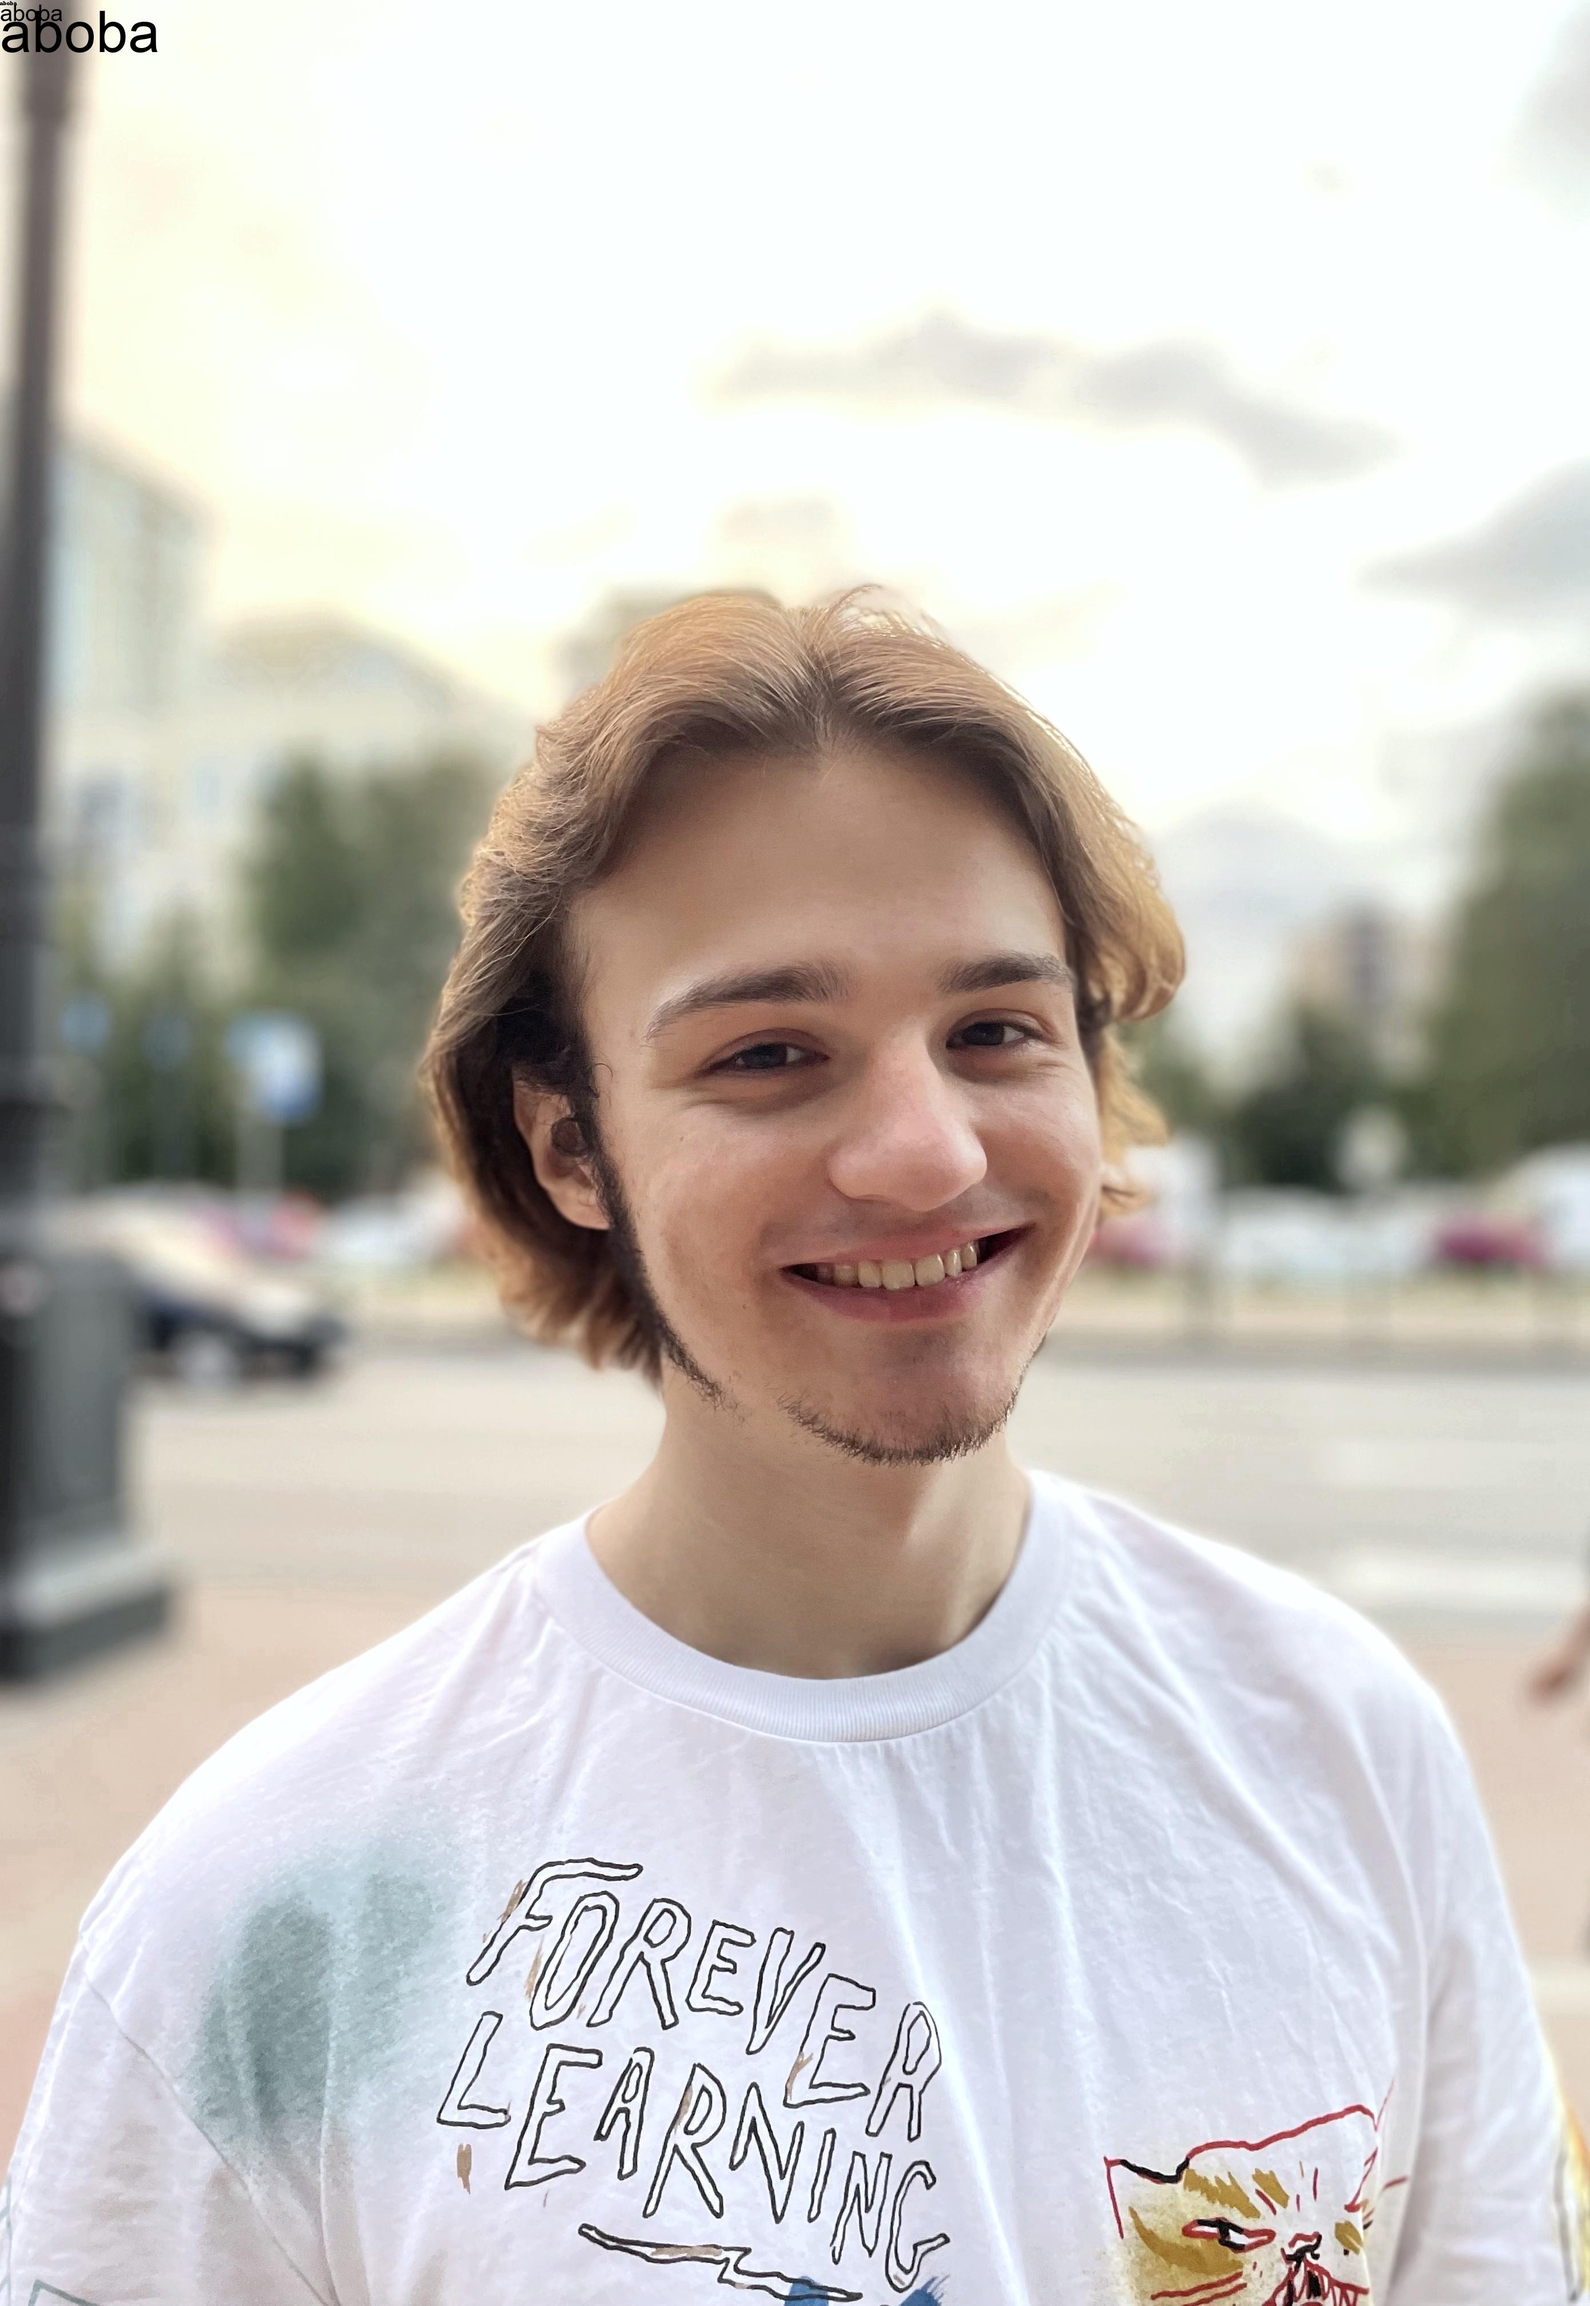
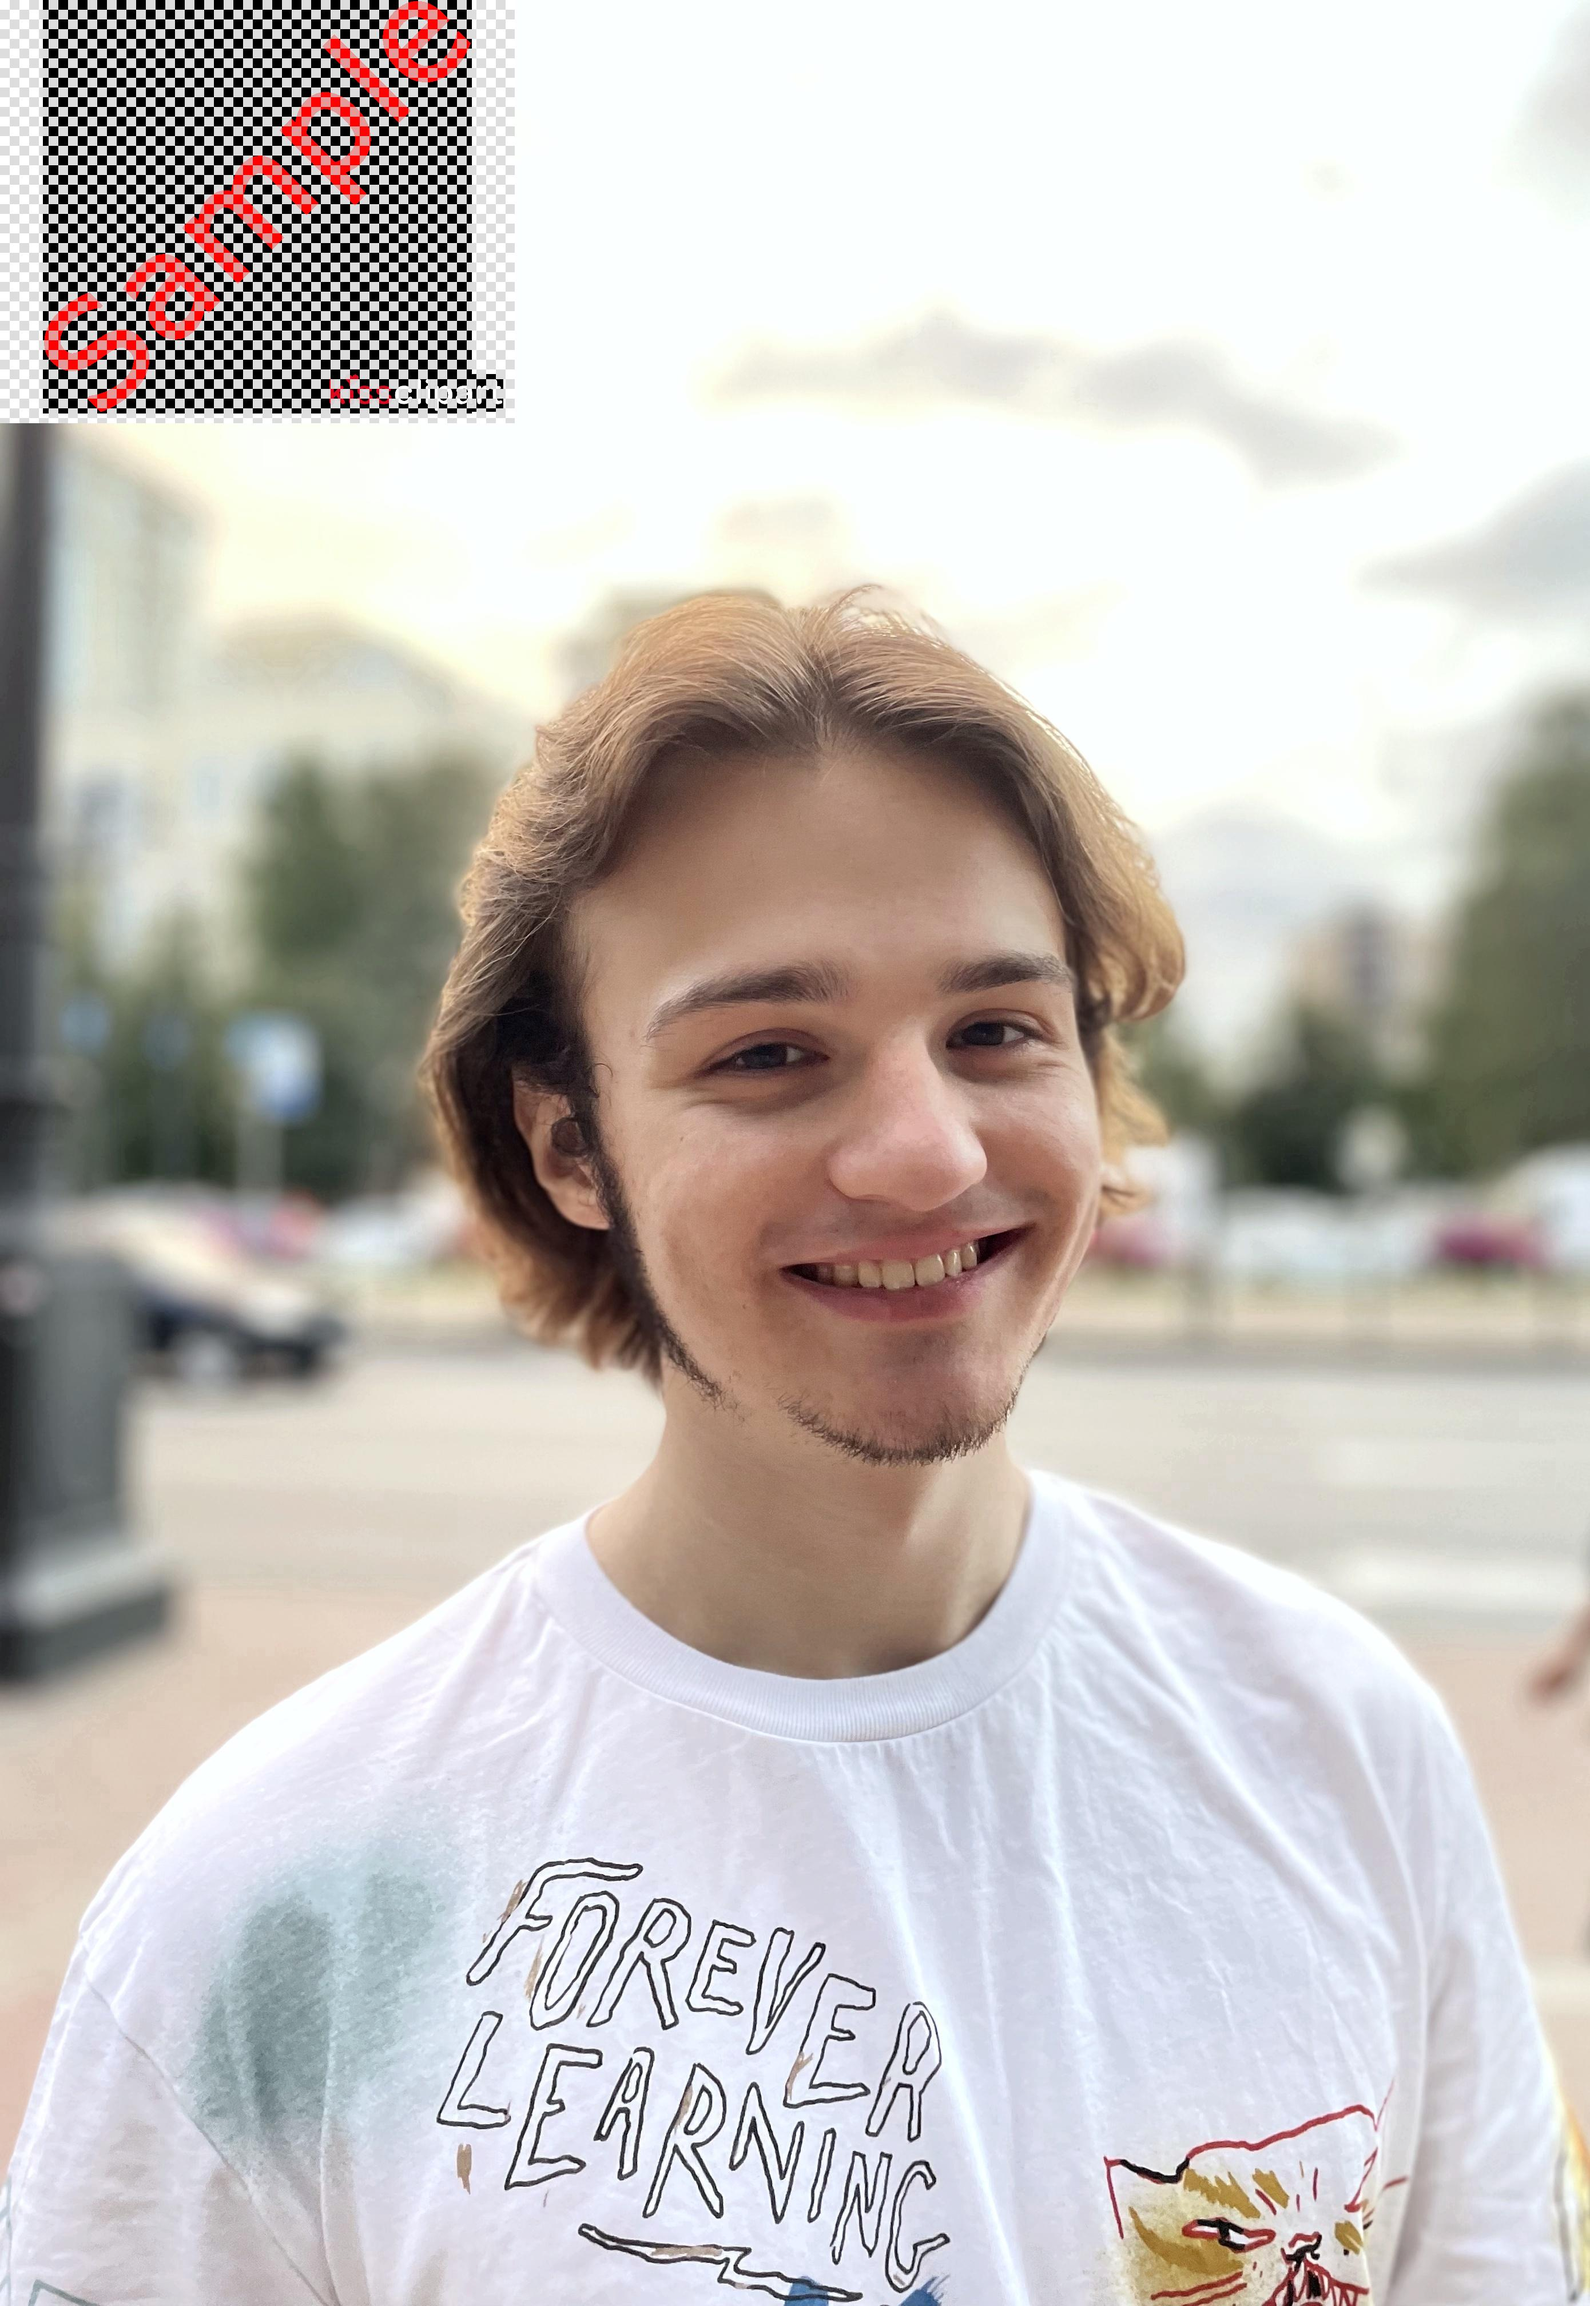
feat: add simple resizer

Changed region(s): [[0.0, 0.0, 0.3403, 0.1875]]

diff --git a/main.py b/main.py
@@ -1,14 +1,12 @@
 from PIL import ImageFont
 
-from editors.water_mark import TextWaterMark
+from editors.water_mark import ImageWaterMark
 
 
 def check():
-    TextWaterMark(
+    ImageWaterMark(
         (0, 0),
-        "aboba",
-        "black",
-        ImageFont.truetype("arial.ttf", 100)
+        "media/watermark.png"
     ).render("magic_dir/file.jpeg")
 
 

diff --git a/editors/resize.py b/editors/resize.py
@@ -1,0 +1,12 @@
+from editors.base_editor import BaseEditor
+from PIL import Image
+
+
+class SimpleResizer(BaseEditor):
+    def __init__(self, size: tuple):
+        self.size = size
+
+    def render(self, image: str) -> None:
+        base_image = Image.open(image)
+        base_image.resize(self.size)
+        base_image.save(image)
